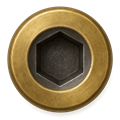
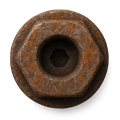
card plate: warmer bronze texture + aged/rusted corner bolts (asset swap); add full card bench

diff --git a/bench/card-full-test.html b/bench/card-full-test.html
@@ -1,0 +1,216 @@
+<!DOCTYPE html>
+<html lang="en">
+<head>
+<meta charset="utf-8" />
+<meta name="viewport" content="width=device-width, initial-scale=1" />
+<title>Bench — RevLimiter card (full)</title>
+<link rel="preconnect" href="https://fonts.googleapis.com" />
+<link rel="preconnect" href="https://fonts.gstatic.com" crossorigin />
+<link href="https://fonts.googleapis.com/css2?family=Bebas+Neue&family=Oswald:wght@400;500;600&family=Anton&family=Teko:wght@400;500;600&family=Fjalla+One&family=Inter:wght@400;500;600;700&family=Manrope:wght@400;500;600&family=Work+Sans:wght@400;500;600&family=IBM+Plex+Sans:wght@400;500;600&family=Figtree:wght@400;500;600&display=swap" rel="stylesheet" />
+<style>
+  :root{
+    --bg-0:#0b0a09; --bg-2:#1d1916; --border:#2a2420;
+    --font-body:'Inter',system-ui,sans-serif;
+
+    --sec-pt:0.48rem; --sec-pb:2.84rem; --head-mb:1.13rem;
+    --h2-font:'Bebas Neue',sans-serif; --h2-size:5.64rem; --rev-color:#920301;
+    --sub-font:'Inter',system-ui,sans-serif; --sub-size:1.26rem; --sub-color:#8a8275;
+    --card-maxw:467px; --card-pad:31px; --card-gap:0.15rem; --card-radius:21px; --raise:7px;
+    --bolt-size:26px; --bolt-inset:7px;
+    --ol-font:'Inter',system-ui,sans-serif; --ol-size:0.9rem; --ol-color:#8a8275;
+    --price-font:'Bebas Neue',sans-serif; --price-size:1.5rem; --price-color:#e8c878;
+    --btn-font:'Inter',system-ui,sans-serif; --btn-size:0.8rem; --btn-color:#efe9df;
+  }
+  *{box-sizing:border-box;}
+  body{margin:0;color:#efe9df;font-family:var(--font-body);-webkit-font-smoothing:antialiased;line-height:1.6;
+    background:radial-gradient(120% 90% at 50% -10%,rgba(60,42,20,0.35),transparent 55%),var(--bg-0);}
+  .stage{margin-right:360px;padding-top:var(--sec-pt);padding-bottom:var(--sec-pb);display:flex;justify-content:center;}
+  .wrap{width:var(--card-maxw);max-width:100%;}
+
+  h2.head{font-family:var(--h2-font);font-size:var(--h2-size);line-height:1.1;letter-spacing:0.02em;text-align:center;margin:0 0 var(--head-mb);}
+  h2.head .rev-accent{color:var(--rev-color);}
+  .sub{font-family:var(--sub-font);font-size:var(--sub-size);color:var(--sub-color);text-align:center;margin:0 0 var(--head-mb);}
+
+  .card{position:relative;display:flex;flex-direction:column;gap:var(--card-gap);padding:var(--card-pad);
+    border-radius:var(--card-radius);border:1px solid #000;color:inherit;text-decoration:none;
+    background:
+      url('/plate/card-bolt.png') left var(--bolt-inset) top var(--bolt-inset)/var(--bolt-size) no-repeat,
+      url('/plate/card-bolt.png') right var(--bolt-inset) top var(--bolt-inset)/var(--bolt-size) no-repeat,
+      url('/plate/card-bolt.png') left var(--bolt-inset) bottom var(--bolt-inset)/var(--bolt-size) no-repeat,
+      url('/plate/card-bolt.png') right var(--bolt-inset) bottom var(--bolt-inset)/var(--bolt-size) no-repeat,
+      url('/plate/card-plate.jpg') center/cover;
+    box-shadow:inset 0 1px 0 rgba(255,255,255,0.14),inset 0 -2px 8px rgba(0,0,0,0.65),0 var(--raise) calc(var(--raise)*2.2) rgba(0,0,0,0.7);}
+  .card.nobolt{background:url('/plate/card-plate.jpg') center/cover;}
+  .thumb{aspect-ratio:1800/870;background:var(--bg-2);border:1px solid rgba(0,0,0,0.6);overflow:hidden;border-radius:3px;box-shadow:0 2px 6px rgba(0,0,0,0.5);}
+  .thumb img{width:100%;height:100%;object-fit:contain;display:block;}
+  .one-liner{font-family:var(--ol-font);font-size:var(--ol-size);color:var(--ol-color);margin:0.5rem 0 0;}
+  .now{font-family:var(--price-font);font-size:var(--price-size);color:var(--price-color);letter-spacing:0.04em;margin-top:0.4rem;display:inline-block;}
+  .more{font-family:var(--btn-font);font-size:var(--btn-size);color:var(--btn-color);text-transform:uppercase;letter-spacing:0.15em;margin-top:0.4rem;}
+
+  .panel{position:fixed;right:0;top:0;bottom:0;width:360px;background:#0e0d0c;border-left:1px solid #2a2520;padding:0.9rem 1rem 4rem;overflow-y:auto;font-size:12px;}
+  .panel h2{font-family:'Bebas Neue',sans-serif;letter-spacing:0.08em;color:#e8c878;font-size:0.95rem;margin:0.9rem 0 0.3rem;border-bottom:1px solid #2a2520;padding-bottom:0.25rem;}
+  .panel h2:first-of-type{margin-top:0;}
+  .row{display:flex;align-items:center;gap:0.4rem;margin:0.28rem 0;}
+  .row label{flex:0 0 110px;color:#8a8275;}
+  .row input[type=range],.row select{flex:1;min-width:0;}
+  .row input[type=color]{flex:0 0 38px;height:22px;padding:0;border:1px solid #2a2520;background:none;}
+  .row output{flex:0 0 50px;text-align:right;color:#e8c878;font-variant-numeric:tabular-nums;}
+  .copy{background:#c9a35c;color:#0b0a09;border:0;padding:0.45rem 0.9rem;font-family:'Bebas Neue',sans-serif;letter-spacing:0.08em;cursor:pointer;font-size:14px;}
+  .hint{color:#5a544c;font-size:10.5px;}
+  pre{margin-right:360px;margin-top:0;background:#0e0d0c;color:#b9d6a8;padding:1rem 1.3rem;font-size:11px;line-height:1.5;white-space:pre-wrap;border-top:1px solid #2a2520;}
+</style>
+</head>
+<body>
+  <div class="stage">
+    <div class="wrap">
+      <h2 class="head"><span class="rev-accent">Rev</span>Limiter</h2>
+      <p class="sub">Maximum loudness. Zero engine damage.</p>
+      <a class="card" id="card" href="#">
+        <div class="thumb"><img src="/src/assets/plugins/revlimiter-hero.png" alt="RevLimiter" /></div>
+        <p class="one-liner">The redline is your threshold. The needle is your gain reduction. Mastering loudness with the muscle of a tuned engine.</p>
+        <span class="now">$93</span>
+        <span class="more">View &amp; buy &rarr;</span>
+      </a>
+    </div>
+  </div>
+
+  <div class="panel" id="panel"></div>
+  <pre id="out"></pre>
+
+<script>
+  const FD=['Bebas Neue','Oswald','Anton','Teko','Fjalla One'];
+  const FB=['Inter','Manrope','Work Sans','IBM Plex Sans','Figtree'];
+  const stack=f=>FD.includes(f)?`'${f}',sans-serif`:`'${f}',system-ui,sans-serif`;
+
+  // control config: [section, [ctrl,...]]  ctrl = {k,label,var,type,min,max,val,unit,opts}
+  const CFG=[
+   ['Spacing',[
+    {k:'secpt',label:'Section pad top',var:'--sec-pt',type:'rem',min:0,max:600,val:48},
+    {k:'secpb',label:'Section pad bot',var:'--sec-pb',type:'rem',min:0,max:800,val:284},
+    {k:'headmb',label:'Head/sub ↔ card',var:'--head-mb',type:'rem',min:0,max:600,val:113},
+    {k:'cardmaxw',label:'Card width',var:'--card-maxw',type:'px',min:280,max:900,val:467},
+    {k:'cardpad',label:'Card frame',var:'--card-pad',type:'pxraw',min:0,max:80,val:31},
+    {k:'cardgap',label:'Card inner gap',var:'--card-gap',type:'rem',min:0,max:300,val:15},
+   ]],
+   ['Plate / bolts',[
+    {k:'radius',label:'Corner radius',var:'--card-radius',type:'pxraw',min:0,max:40,val:21},
+    {k:'raise',label:'Raised depth',var:'--raise',type:'pxraw',min:0,max:40,val:7},
+    {k:'showbolt',label:'Show bolts',type:'sel',opts:['Yes','No'],val:'Yes'},
+    {k:'boltsize',label:'Bolt size',var:'--bolt-size',type:'pxraw',min:12,max:60,val:26},
+    {k:'boltinset',label:'Bolt inset',var:'--bolt-inset',type:'pxraw',min:0,max:40,val:7},
+   ]],
+   ['Heading (RevLimiter)',[
+    {k:'h2font',label:'Font',var:'--h2-font',type:'font',group:'D',val:'Bebas Neue'},
+    {k:'h2size',label:'Size',var:'--h2-size',type:'rem',min:150,max:1000,val:564},
+    {k:'revcol',label:'REV color',var:'--rev-color',type:'color',val:'#920301'},
+   ]],
+   ['Subhead',[
+    {k:'subfont',label:'Font',var:'--sub-font',type:'font',group:'B',val:'Inter'},
+    {k:'subsize',label:'Size',var:'--sub-size',type:'rem',min:60,max:300,val:126},
+    {k:'subcol',label:'Color',var:'--sub-color',type:'color',val:'#8a8275'},
+   ]],
+   ['Card text (tagline)',[
+    {k:'olfont',label:'Font',var:'--ol-font',type:'font',group:'B',val:'Inter'},
+    {k:'olsize',label:'Size',var:'--ol-size',type:'rem',min:60,max:200,val:90},
+    {k:'olcol',label:'Color',var:'--ol-color',type:'color',val:'#8a8275'},
+   ]],
+   ['Price',[
+    {k:'prfont',label:'Font',var:'--price-font',type:'font',group:'D',val:'Bebas Neue'},
+    {k:'prsize',label:'Size',var:'--price-size',type:'rem',min:80,max:400,val:150},
+    {k:'prcol',label:'Color',var:'--price-color',type:'color',val:'#e8c878'},
+   ]],
+   ['Button (View & buy)',[
+    {k:'btfont',label:'Font',var:'--btn-font',type:'font',group:'B',val:'Inter'},
+    {k:'btsize',label:'Size',var:'--btn-size',type:'rem',min:60,max:160,val:80},
+    {k:'btcol',label:'Color',var:'--btn-color',type:'color',val:'#efe9df'},
+   ]],
+  ];
+
+  const R=document.documentElement.style, panel=document.getElementById('panel'), out=document.getElementById('out');
+  const state={};
+
+  CFG.forEach(([sec,ctrls])=>{
+    const h=document.createElement('h2'); h.textContent=sec; panel.appendChild(h);
+    ctrls.forEach(c=>{
+      state[c.k]=c.val;
+      const row=document.createElement('div'); row.className='row';
+      const lab=document.createElement('label'); lab.innerHTML=c.label; row.appendChild(lab);
+      if(c.type==='font'){
+        const s=document.createElement('select'); s.dataset.k=c.k;
+        (c.group==='D'?FD:FB).forEach(f=>{const o=document.createElement('option');o.textContent=f;if(f===c.val)o.selected=true;s.appendChild(o);});
+        row.appendChild(s);
+      }else if(c.type==='sel'){
+        const s=document.createElement('select'); s.dataset.k=c.k;
+        c.opts.forEach(f=>{const o=document.createElement('option');o.textContent=f;if(f===c.val)o.selected=true;s.appendChild(o);});
+        row.appendChild(s);
+      }else if(c.type==='color'){
+        const i=document.createElement('input'); i.type='color'; i.value=c.val; i.dataset.k=c.k; row.appendChild(i);
+      }else{
+        const i=document.createElement('input'); i.type='range'; i.min=c.min; i.max=c.max; i.value=c.val; i.dataset.k=c.k; row.appendChild(i);
+        const o=document.createElement('output'); o.id='o-'+c.k; row.appendChild(o);
+      }
+      panel.appendChild(row);
+    });
+  });
+  // export button
+  const eh=document.createElement('h2'); eh.textContent='Export'; panel.appendChild(eh);
+  const btn=document.createElement('button'); btn.className='copy'; btn.textContent='Copy CSS'; panel.appendChild(btn);
+  const cs=document.createElement('span'); cs.className='hint'; cs.style.marginLeft='8px'; panel.appendChild(cs);
+
+  const find=k=>CFG.flatMap(s=>s[1]).find(c=>c.k===k);
+  function valOf(c){
+    const v=state[c.k];
+    if(c.type==='rem') return (v/100).toFixed(2)+'rem';
+    if(c.type==='px'||c.type==='pxraw') return v+'px';
+    if(c.type==='font') return stack(v);
+    return v;
+  }
+  function apply(){
+    CFG.flatMap(s=>s[1]).forEach(c=>{
+      if(c.var){ R.setProperty(c.var, valOf(c)); }
+      const o=document.getElementById('o-'+c.k); if(o) o.textContent=valOf(c);
+    });
+    document.getElementById('card').classList.toggle('nobolt', state.showbolt==='No');
+    writeOut();
+  }
+  function v(k){return valOf(find(k));}
+  function writeOut(){
+    const bolts = state.showbolt==='No'
+      ? `    url('/plate/card-plate.jpg') center / cover;`
+      : `    url('/plate/card-bolt.png') left ${v('boltinset')} top ${v('boltinset')} / ${v('boltsize')} no-repeat,
+    url('/plate/card-bolt.png') right ${v('boltinset')} top ${v('boltinset')} / ${v('boltsize')} no-repeat,
+    url('/plate/card-bolt.png') left ${v('boltinset')} bottom ${v('boltinset')} / ${v('boltsize')} no-repeat,
+    url('/plate/card-bolt.png') right ${v('boltinset')} bottom ${v('boltinset')} / ${v('boltsize')} no-repeat,
+    url('/plate/card-plate.jpg') center / cover;`;
+    out.textContent=
+`/* ── global.css ── */
+.plugin-grid-lead { padding: ${v('secpt')} 0 ${v('secpb')}; }
+.plugin-grid-lead .plugin-cards.single .plugin-card {
+  padding: ${v('cardpad')};
+  gap: ${v('cardgap')};
+  border-radius: ${v('radius')};
+  border: 1px solid #000;
+  background:
+${bolts}
+  box-shadow: inset 0 1px 0 rgba(255,255,255,0.14), inset 0 -2px 8px rgba(0,0,0,0.65), 0 ${v('raise')} calc(${v('raise')} * 2.2) rgba(0,0,0,0.7);
+}
+.plugin-grid-lead .plugin-card h3 { display: none; }
+.plugin-grid-lead .plugin-card .one-liner { font-family: ${v('olfont')}; font-size: ${v('olsize')}; color: ${state.olcol}; }
+.plugin-grid-lead .plugin-card .now { font-family: ${v('prfont')}; font-size: ${v('prsize')}; color: ${state.prcol}; }
+.plugin-grid-lead .plugin-card .more { font-family: ${v('btfont')}; font-size: ${v('btsize')}; color: ${state.btcol}; }
+
+/* ── index.astro <style> ── */
+.grid-head { margin-bottom: ${v('headmb')}; }
+.grid-head h2 { font-family: ${v('h2font')}; font-size: clamp(2.75rem, 8vw, ${v('h2size')}); }
+.grid-head h2 .rev-accent { color: ${state.revcol}; }
+.grid-head .muted { font-family: ${v('subfont')}; font-size: ${v('subsize')}; color: ${state.subcol}; margin: 0; }
+.plugin-cards.single { max-width: ${v('cardmaxw')}; }`;
+  }
+
+  panel.addEventListener('input',e=>{const k=e.target.dataset.k; if(!k)return; state[k]=e.target.value; apply();});
+  panel.addEventListener('change',e=>{const k=e.target.dataset.k; if(!k)return; state[k]=e.target.value; apply();});
+  btn.addEventListener('click',async()=>{try{await navigator.clipboard.writeText(out.textContent);cs.textContent='copied ✓';}catch{cs.textContent='select+copy';}setTimeout(()=>cs.textContent='',1600);});
+  apply();
+</script>
+</body>
+</html>